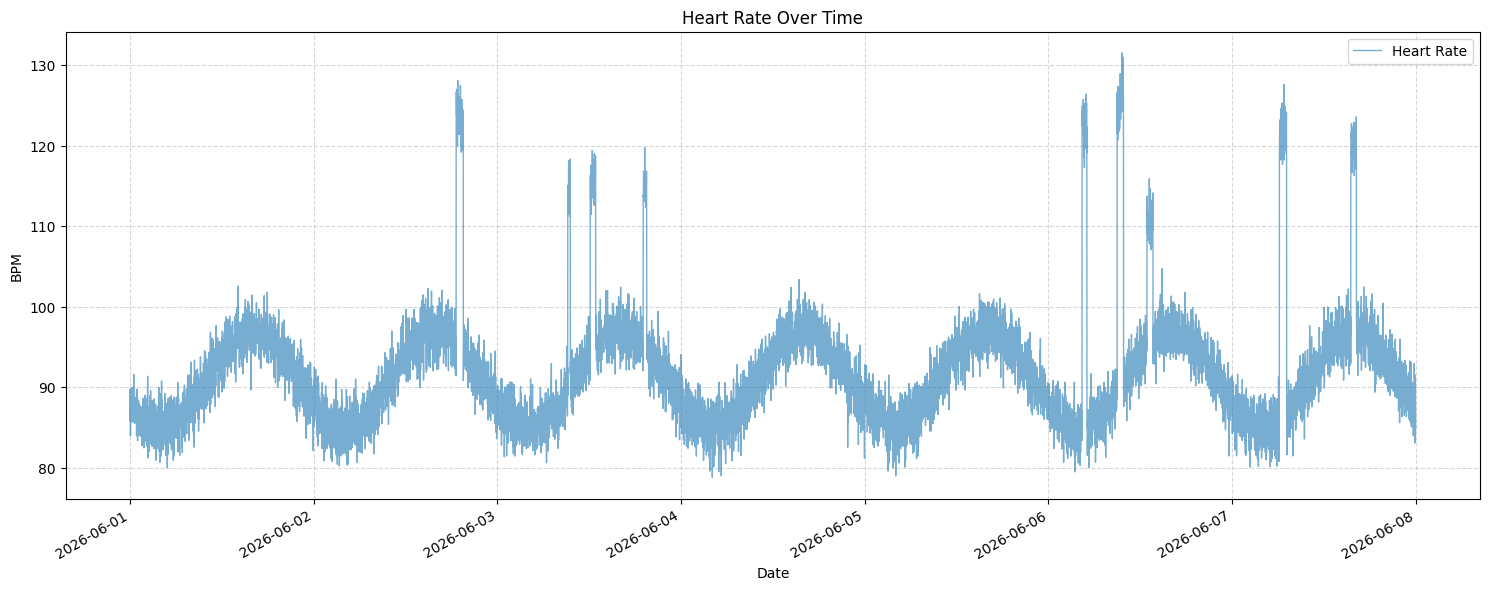
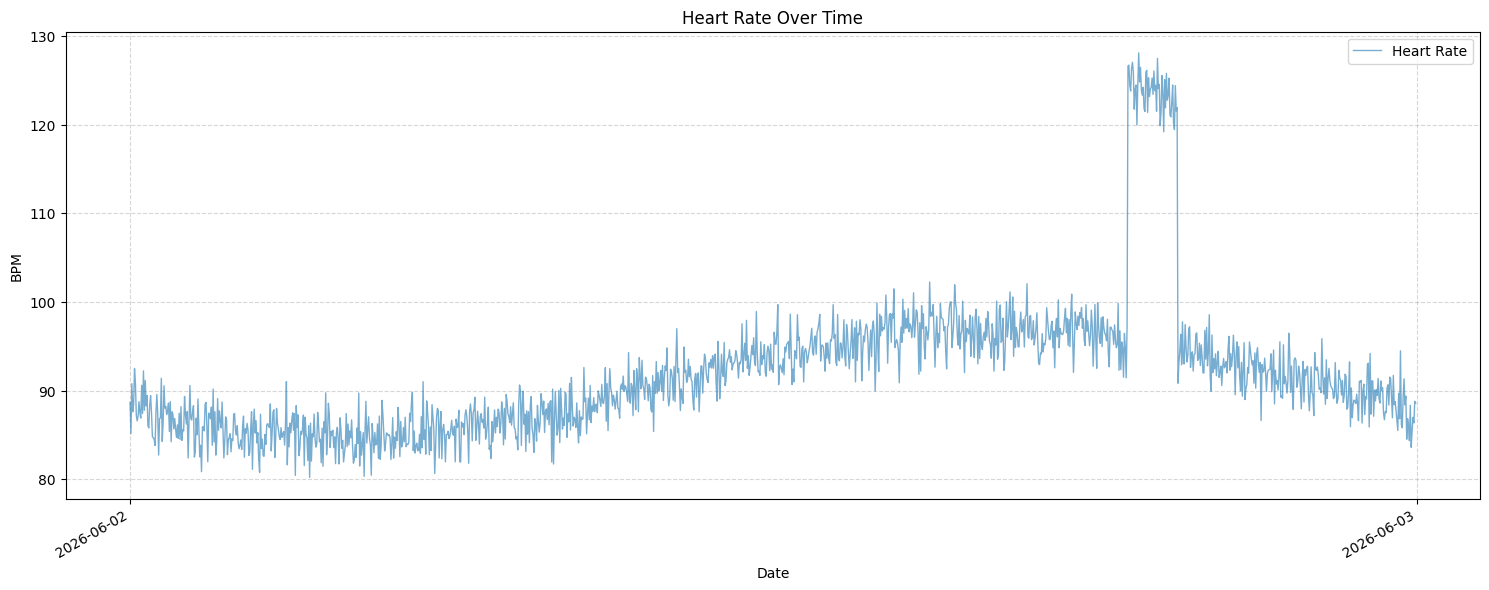
hr plot for 1 day for better readability

diff --git a/syntheticData/main.py b/syntheticData/main.py
@@ -1,4 +1,5 @@
 from synthetic_generator import generate_user_ids, generate_cohort, generate_HR
+import pandas as pd
 from plotting import (
     plot_gap_histogram,
     plot_missing_rate_histogram,
@@ -38,6 +39,12 @@ if __name__ == "__main__":
     plot_gap_histogram(ema_df, mean_gap_length=3)
     plot_missing_rate_histogram(ema_df, resp_rate=RESP_RATE)
     plot_response_raster(ema_df, resp_rate=RESP_RATE)
-    plot_heart_rate(hr_df[hr_df["user_id"] == user_ids[0]])  # single user for readability | add more if needed
+
+    target_date = pd.to_datetime('2026-06-02').date()
+    sample_hr = hr_df[
+        (hr_df["user_id"] == user_ids[0]) & 
+        (hr_df['timestamp'].dt.date == target_date)
+    ]
+    plot_heart_rate(sample_hr)  # single user for readability | add more if needed
 
     print('DONE RUNNING')
